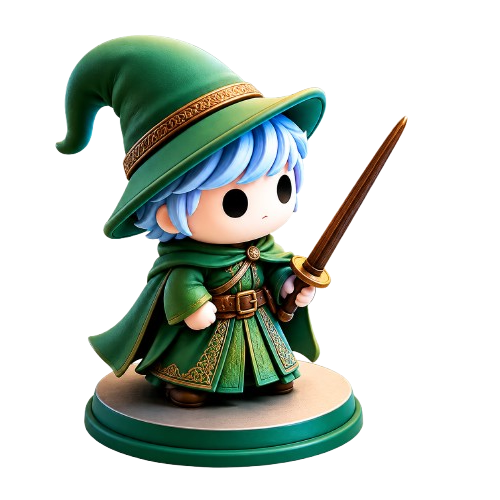
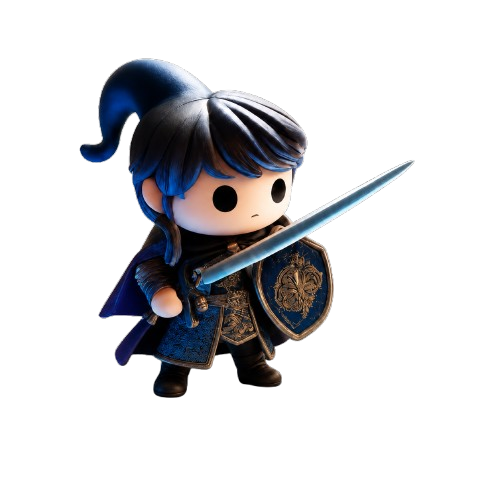
upload more photos

diff --git a/main.py b/main.py
@@ -12,17 +12,18 @@ class Screen:
 class Background:
     def __init__(self):
         self.board=pg.image.load("images/board.png")
-        self.rect=self.board.get_rect(midbottom=(1000,500))
+        self.board =pg.transform.scale(self.board, (1000, 500))
+        self.rect=self.board.get_rect(midbottom=(500,500))
 class Player2:
     def __init__(self):
         self.image=pg.image.load("images/player2.png")
         self.image=pg.transform.scale(self.image,(100,100))
-        self.rect=self.image.get_rect(midbottom=(100,500 ))
+        self.rect=self.image.get_rect(midbottom=(150,110 ))
 class Player:
     def __init__(self):
-        self.image=(pg.image.load("images/player1.png"))
+        self.image=(pg.image.load("images/player.png"))
         self.image=pg.transform.scale(self.image,(100,100))
-        self.rect=self.image.get_rect(midbottom=(70,500 ))
+        self.rect=self.image.get_rect(midbottom=(110,110 ))
 screen = Screen(1000, 500)
 player=Player()
 player2=Player2()
@@ -37,12 +38,12 @@ while True:
         screen.screen.blit(player2.image,player2.rect)
         key =pg.key.get_pressed()
         if key[pg.K_RIGHT]:
-            player.rect.x+=3
+            player.rect.x+=10
         if key[pg.K_LEFT]:
-            player.rect.x-=3
+            player.rect.x-=10
         if key[pg.K_d]:
-            player2.rect.x+=3
+            player2.rect.x+=10
         if key[pg.K_a]:
-            player2-=3      
+            player2-=10      
         pg.display.update()
         clock.tick(60)#Consistent Game Speed